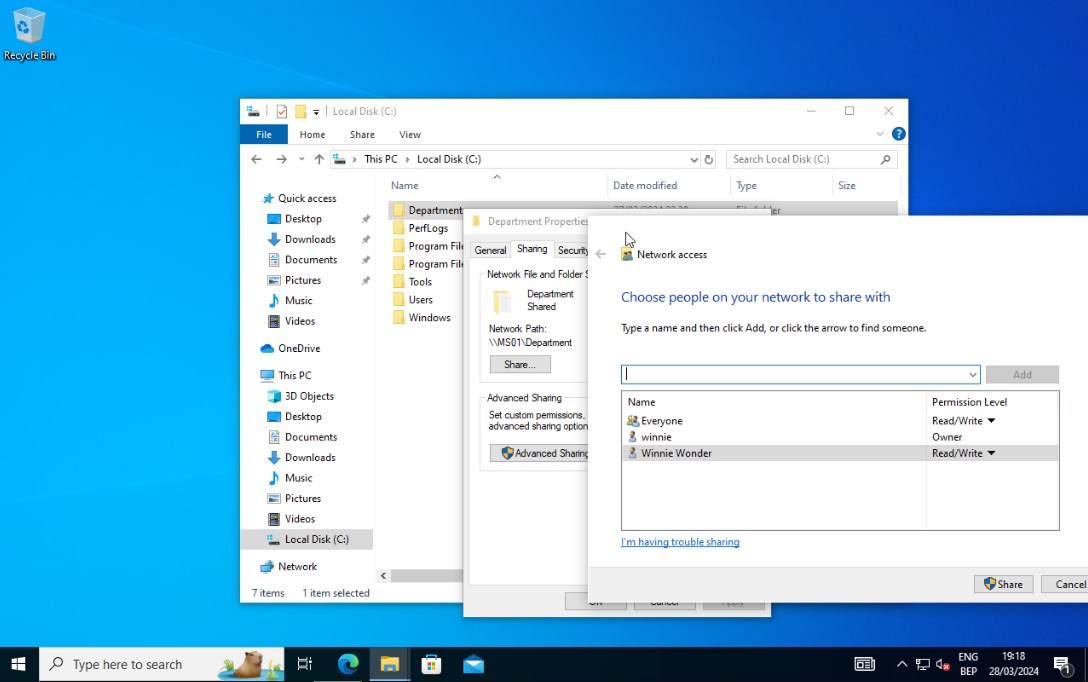
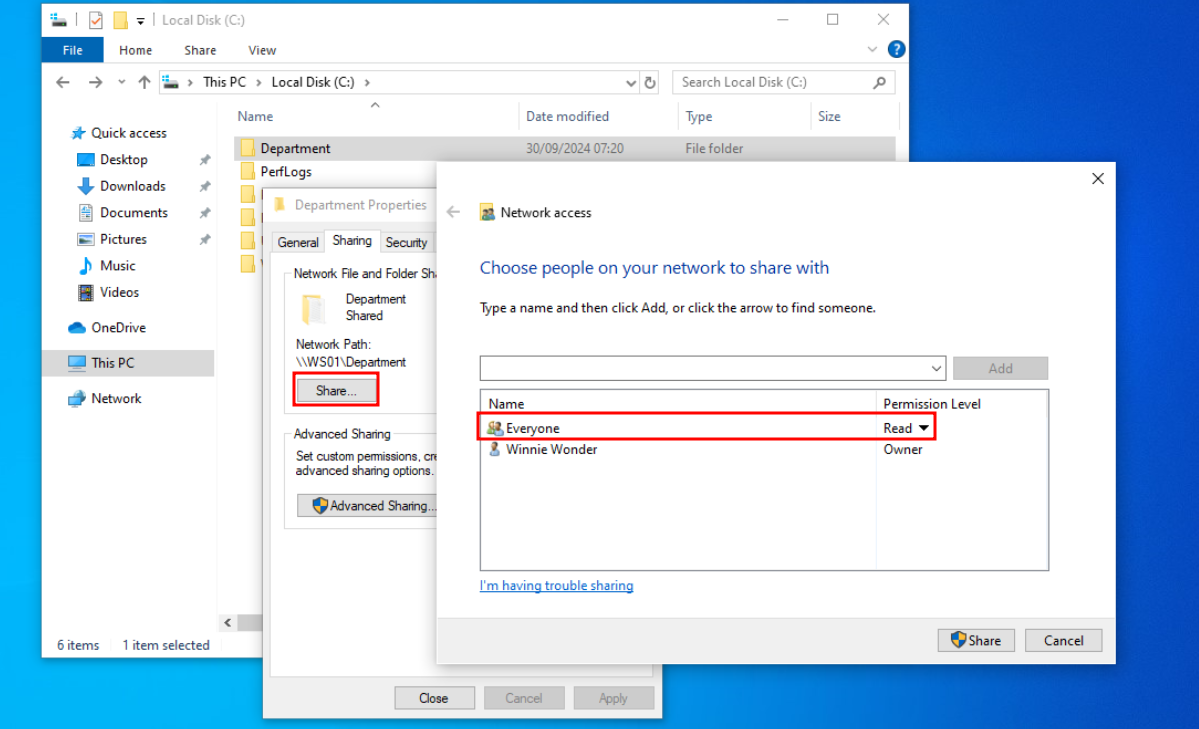
proxmox lab part 3 update

diff --git a/_posts/2024-03-28-proxmox-homelab-part3.md b/_posts/2024-03-28-proxmox-homelab-part3.md
@@ -83,18 +83,17 @@ I found that when applying the GPO to the domain, I was still not able to WinRM 
 ### Local Share
 Login as a local administator to one of your Windows VMs and navigate to `Control Panel > Network and Internet > Network and Sharing Center > Change Advanced sharing settings > Guest or Public > Turn on File and Printer sharing`.
 
-Next create a new folder, Right-click and go to `Properties > Sharing tab > Share` and give the `Everyone` user full read and write permission (read only).
+Next create a new folder, Right-click and go to `Properties > Sharing tab > Share` and give the `Everyone` user read permission.
 
 ![vulnerability-setup-9](../assets/images/homelab/vuln-setup-9.png)
 
-If you want to allow users to access the file share as a `Guest` user, then open `Local Security Policy` as an Administrator on the computer you want to allow guest access. Next go to `Local Policies > Security Options > Accounts: Guest account status` and switch it to Enabled. By doing this users can authenticate as the Guest user with a blank password.
-
-### Domain Share
-Login as a domain administrator to one of the domain joined hosts. Go to `Local Security Policy > Local Policies > Security Options`. Set the option `Accounts: Guest account status` to `Enabled`. Also enable `Network access: Let Everyone permissions apply to anonymous users `.
+If you want to allow users to access the file share as a `Guest` user, then open `Local Security Policy` as an Administrator. Next go to `Local Policies > Security Options > Accounts: Guest account status` and switch it to Enabled. 
 
 ![vulnerability-setup-8](../assets/images/homelab/vuln-setup-8.png)
 
-To make a folder shared on the network go to `Network access: Shares that can be accessed anonymously` and enter your folder name.
+In the same window go to `User Rights Assignment > Deny access to this computer from the network` and make sure that the Guest account is not in this list.
+
+![vulnerability-setup-8](../assets/images/homelab/vuln-setup-8.1.png)
 
 ## Enforce the Domain Policies
 Right-click on the Start menu and select Windows PowerShell (Admin).
